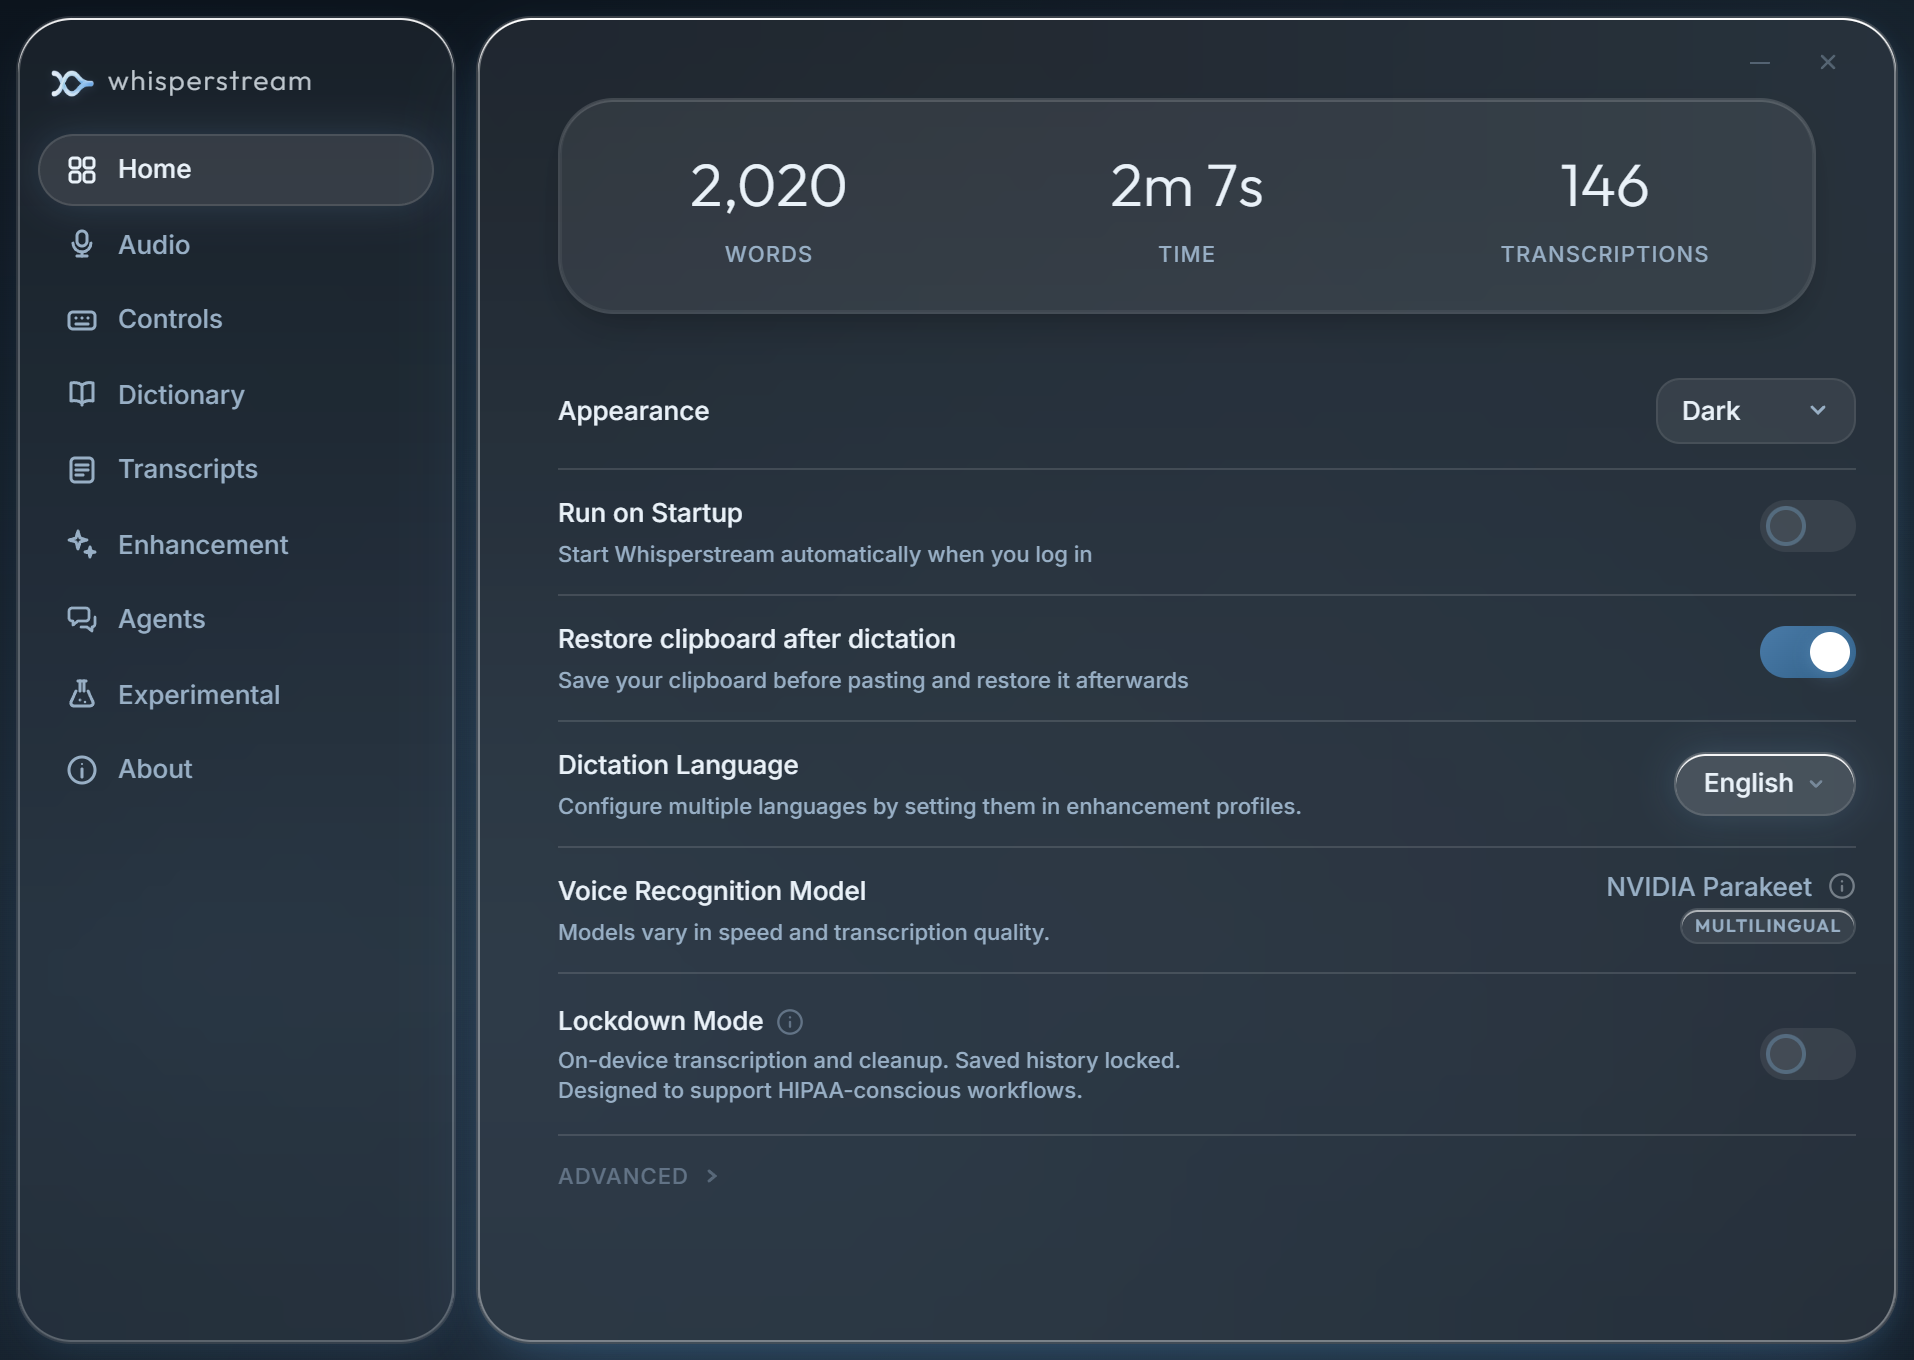
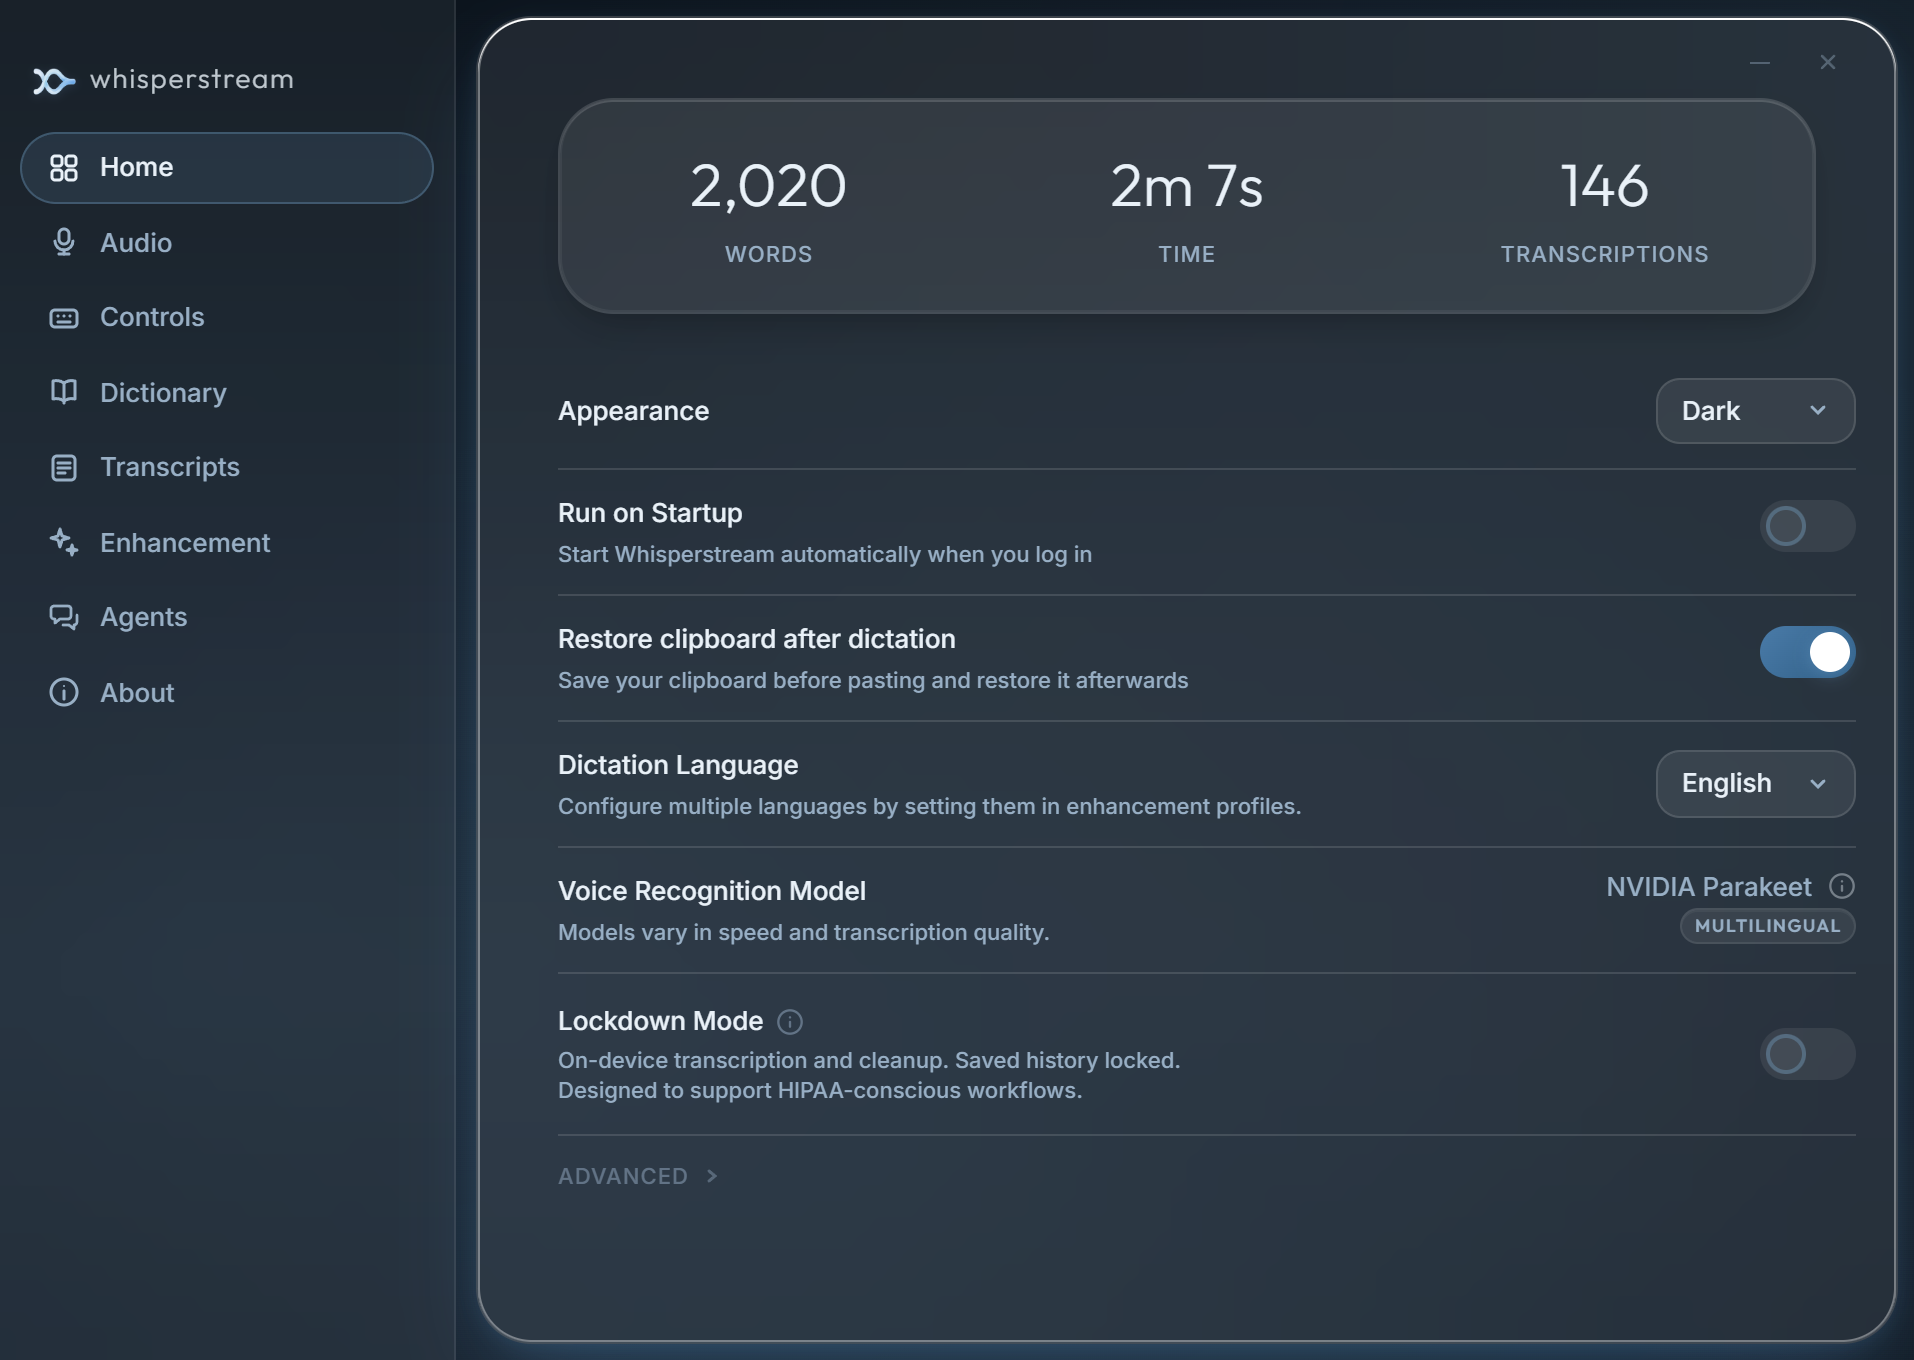
Prepare 2.0.1 and filter release notes per platform (#12)
* Sync the publishing controls

* Sync with the private staging tree

diff --git a/scripts/_build_lib.py b/scripts/_build_lib.py
@@ -905,7 +905,57 @@ iso_utc_now = _iso_utc_now
 # latest.json generation + CHANGELOG note extraction (Task 1.2)
 # ---------------------------------------------------------------------------
 
-def extract_changelog_notes(version: str, changelog_text: str) -> str | None:
+CHANGELOG_PLATFORMS = ("windows", "mac")
+
+# A bullet that applies to one platform only: ``- [Mac] Fixed ...``.
+_PLATFORM_BULLET = re.compile(r"^(\s*[-*]\s+)\[(mac|windows)\]\s*", re.IGNORECASE)
+
+
+def filter_changelog_platform(notes: str, platform: str) -> str | None:
+    """Keep the notes that apply to *platform*.
+
+    Shared bullets stay as they are. A ``[Mac]`` or ``[Windows]`` bullet is
+    kept, without its tag, on the matching platform and dropped (with any
+    indented continuation lines) on the other. A ``###`` heading left with no
+    content is dropped too, so the update popup never shows an empty group.
+    """
+    platform = platform.lower()
+    if platform not in CHANGELOG_PLATFORMS:
+        raise ValueError(f"unknown changelog platform: {platform!r}")
+
+    kept: list[str] = []
+    dropping = False
+    for line in notes.splitlines():
+        match = _PLATFORM_BULLET.match(line)
+        if match:
+            dropping = match.group(2).lower() != platform
+            if not dropping:
+                kept.append(match.group(1) + line[match.end():])
+            continue
+        if dropping and line.strip() and line[:1].isspace():
+            continue  # continuation of a dropped bullet
+        dropping = False
+        kept.append(line)
+
+    # Drop headings whose group is now empty, then collapse blank runs.
+    blocks: list[list[str]] = [[]]
+    for line in kept:
+        if line.startswith("#"):
+            blocks.append([])
+        blocks[-1].append(line)
+    lines = [
+        line
+        for block in blocks
+        if not (block and block[0].startswith("#") and not any(l.strip() for l in block[1:]))
+        for line in block
+    ]
+    text = re.sub(r"\n{3,}", "\n\n", "\n".join(lines)).strip()
+    return text or None
+
+
+def extract_changelog_notes(
+    version: str, changelog_text: str, platform: str | None = None
+) -> str | None:
     """Extract the release notes body for *version* from a CHANGELOG.md string.
 
     Matches the ``## [X.Y.Z]`` section heading (plus optional date suffix) and
@@ -915,6 +965,8 @@ def extract_changelog_notes(version: str, changelog_text: str) -> str | None:
     Args:
         version: The version string to look up, e.g. ``"1.0.1"``.
         changelog_text: The full text of ``CHANGELOG.md``.
+        platform: ``"windows"`` or ``"mac"`` to keep only the notes for that
+            platform's update feed (see ``filter_changelog_platform``).
 
     Returns:
         The stripped bullet body for *version*, or ``None`` if the section is
@@ -929,9 +981,10 @@ def extract_changelog_notes(version: str, changelog_text: str) -> str | None:
         r"(?=^## \[|\Z)"                           # stop at next section or EOF
     )
     match = re.search(pattern, changelog_text, flags=re.MULTILINE | re.DOTALL)
-    if match and match.group(1).strip():
-        return match.group(1).strip()
-    return None
+    if not (match and match.group(1).strip()):
+        return None
+    notes = match.group(1).strip()
+    return filter_changelog_platform(notes, platform) if platform else notes
 
 
 def update_download_base(

diff --git a/tests/test_build_release_lib.py b/tests/test_build_release_lib.py
@@ -660,6 +660,50 @@ class TestExtractChangelogNotes:
         assert "upcoming" not in notes
 
 
+PLATFORM_CHANGELOG = """\
+## [2.0.1] - 2026-10-27
+
+### Fixed
+
+- Shared fix.
+- [Mac] Mac fix.
+- [Windows] Windows fix
+  that wraps onto a second line.
+
+### Mac
+
+- [mac] Native window polish.
+"""
+
+
+class TestChangelogPlatformFilter:
+    """Platform-tagged bullets reach only their own platform's update feed."""
+
+    def test_no_platform_keeps_every_line(self):
+        notes = b.extract_changelog_notes("2.0.1", PLATFORM_CHANGELOG)
+        assert "[Mac] Mac fix." in notes and "[Windows] Windows fix" in notes
+
+    def test_mac_keeps_shared_and_mac_lines_without_tags(self):
+        notes = b.extract_changelog_notes("2.0.1", PLATFORM_CHANGELOG, platform="mac")
+        assert notes == (
+            "### Fixed\n\n- Shared fix.\n- Mac fix.\n\n### Mac\n\n- Native window polish."
+        )
+
+    def test_windows_drops_mac_lines_continuations_and_empty_headings(self):
+        notes = b.extract_changelog_notes("2.0.1", PLATFORM_CHANGELOG, platform="windows")
+        assert notes == (
+            "### Fixed\n\n- Shared fix.\n- Windows fix\n  that wraps onto a second line."
+        )
+
+    def test_section_with_only_other_platform_lines_returns_none(self):
+        text = "## [2.0.1]\n\n- [Mac] Only Mac.\n"
+        assert b.extract_changelog_notes("2.0.1", text, platform="windows") is None
+
+    def test_unknown_platform_is_rejected(self):
+        with pytest.raises(ValueError):
+            b.extract_changelog_notes("2.0.1", PLATFORM_CHANGELOG, platform="linux")
+
+
 # ---------------------------------------------------------------------------
 # build_latest_manifest
 # ---------------------------------------------------------------------------

diff --git a/scripts/build.py b/scripts/build.py
@@ -741,7 +741,9 @@ def _generate_latest_json(version: str, total: int) -> None:
     changelog = b.REPO_ROOT / "CHANGELOG.md"
     notes = None
     if changelog.exists():
-        notes = b.extract_changelog_notes(version, changelog.read_text(encoding="utf-8"))
+        notes = b.extract_changelog_notes(
+            version, changelog.read_text(encoding="utf-8"), platform="windows"
+        )
         if notes is not None:
             print(f"Using CHANGELOG.md notes for {version} ({len(notes)} chars)")
         else:

diff --git a/scripts/build_macos_internal.py b/scripts/build_macos_internal.py
@@ -506,7 +506,7 @@ def _write_update_bundle(
         raise MacInternalBuildError(f"cannot derive the update URL: {exc}") from exc
     changelog = REPO_ROOT / "CHANGELOG.md"
     notes = (
-        extract_changelog_notes(version, changelog.read_text(encoding="utf-8"))
+        extract_changelog_notes(version, changelog.read_text(encoding="utf-8"), platform="mac")
         if changelog.is_file() else None
     )
     manifest = build_update_manifest(
